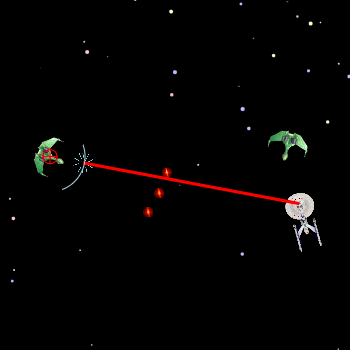
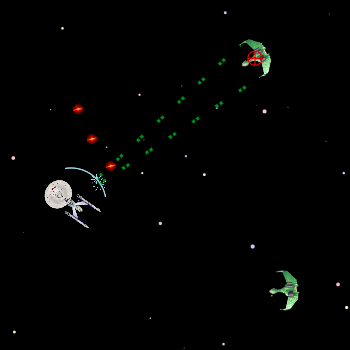
changed image for scen 2 and updated readme

diff --git a/dist/main.js b/dist/main.js
@@ -170,7 +170,7 @@ eval("const Utils = __webpack_require__(/*! ./utils */ \"./src/utils.js\");\n\nc
 /*! no static exports found */
 /***/ (function(module, exports, __webpack_require__) {
 
-eval("const Game = __webpack_require__(/*! ./game */ \"./src/game.js\");\nconst GameOpening = __webpack_require__(/*! ./game_opening */ \"./src/game_opening.js\");\nconst Enterprise = __webpack_require__(/*! ./enterprise */ \"./src/enterprise.js\");\nconst Soyuz = __webpack_require__(/*! ./soyuz */ \"./src/soyuz.js\");\nconst D7 = __webpack_require__(/*! ./d7 */ \"./src/d7.js\");\nconst Bird_of_Prey = __webpack_require__(/*! ./bird_of_prey */ \"./src/bird_of_prey.js\");\nconst Explosion = __webpack_require__(/*! ./explosion */ \"./src/explosion.js\")\nconst Utils = __webpack_require__(/*! ./utils */ \"./src/utils.js\");\n\nclass GameView {\n\n\tconstructor(ctx, sounds) {\n\n\t\tthis.ctx = ctx;\n\t\tthis.pause = false;\n\t\tthis.sounds = sounds;\n\n\t\tthis.game = new Game();\n\t\tthis.gameOpening = new GameOpening();\n\n\t\tthis.loadImages();\n\t};\n\t\n\n\tstart() {\n\t\t// start the animation\n\t\trequestAnimationFrame(this.animate.bind(this));\n\t};\n\n\n\tanimate() {\n\t\tif (!this.pause) {\n\n\t\t\t// if unpaused this steps and draws either the game or the gameOpening\n\t\t\tif (this.gameOpening !== null) this.gameOpening.stepAndDraw(this.ctx);\n\t\t\telse {\n\t\t\t\tif (this.game.main.getHull() === 0) this.game.lose = true;\n\t\t\t\telse if (this.game.enemies.length === 0) this.game.win = true;\n\t\t\t\telse {\n\t\t\t\t\tthis.game.enemies.forEach((enemy, i) => {\n\t\t\t\t\t\tif (enemy.isGone()){\n\t\t\t\t\t\t\tthis.game.enemies.splice(i, 1);\n\t\t\t\t\t\t\tthis.game.enemyAIs.splice(i, 1);\n\t\t\t\t\t\t\tif(this.game.main.getTarget() === enemy) this.game.changeMainTarget();\n\t\t\t\t\t\t\tif(this.game.enemies.length > 0) \n\t\t\t\t\t\t\t\tthis.game.enemies[this.game.enemies.length - 1].setLabels(true);\n\t\t\t\t\t\t} \n\t\t\t\t\t})\n\t\t\t\t\tthis.game.allies.forEach((ally, i) => {\n\t\t\t\t\t\tif (ally.isGone()) {\n\t\t\t\t\t\t\tthis.game.allies.splice(i, 1);\n\t\t\t\t\t\t\tthis.game.allyAIs.splice(i, 1);\n\t\t\t\t\t\t}\n\t\t\t\t\t})\n\t\t\t\t\tthis.game.step();\n\t\t\t\t}\n\t\t\t\tthis.game.draw(this.ctx);\n\t\t\t}\n\n\t\t\t// every call to animate requests causes another call to animate\n\t\t\trequestAnimationFrame(this.animate.bind(this));\n\t\t}\n\t};\n\n\t\n\tkeyHandler(e) {\n\t\tif (e.type == 'keydown') this.game.getKeyMap()[e.keyCode] = true;\n\t\telse this.game.getKeyMap()[e.keyCode] = false;\t\t\t\n\t};\n\n\n\t// get scenario click if still in the opening of the game, or\n\t// check to see if mute or autopilot is being clicked\n\tcheckClick(x, y, gainNode) {\n\n\t\tif (this.gameOpening !== null) {\n\t\t\tif (y >= 317 && y <= 734) {\n\t\t\t\tif (x > 54 && x < 407) {\n\t\t\t\t\tthis.loadScenario1();\n\t\t\t\t\tthis.openingOff();\n\t\t\t\t}\n\t\t\t\telse if (x > 440 && x < 795) {\n\t\t\t\t\tthis.loadScenario2();\n\t\t\t\t\tthis.openingOff();\n\t\t\t\t}\n\t\t\t\telse if (x > 830 && x < 1184) {\n\t\t\t\t\tthis.loadScenario3();\n\t\t\t\t\tthis.openingOff();\n\t\t\t\t}\n\t\t\t}\n\t\t}\n\t\telse {\n\t\t\tif(x > 1085 && x < 1112) {\n\t\t\t\tif (y > 46 && y < 71) {\n\t\t\t\t\tthis.game.muteToggle();\n\n\t\t\t\t\tif (gainNode.gain.value > -.01 && gainNode.gain.value < .01) gainNode.gain.value = .25;\n\t\t\t\t\telse gainNode.gain.value = 0;\n\n\t\t\t\t\t// if paused, draw to show checkmark in box\n\t\t\t\t\tif (this.pause) this.game.draw(this.ctx)\n\t\t\t\t}\n\t\t\t\telse if (y > 85 && y < 112) {\n\t\t\t\t\tthis.game.autoPilotToggle();\n\n\t\t\t\t\t// if paused, draw to show checkmark in box\n\t\t\t\t\tif (this.pause) this.game.draw(this.ctx)\n\t\t\t\t}\n\t\t\t}\n\t\t}\n\t}\n\n\n\tpauseGameToggle() {\n\t\tthis.pause = this.pause === false;\n\t\t\n\t\t// needed to restart animation on unpause\n\t\tif (!this.pause) requestAnimationFrame(this.animate.bind(this));\n\t};\n\n\n\topeningOff() {\n\t\tthis.gameOpening = null;\n\t\tthis.sounds.theme.play();\n\t};\n\n\n\tloadScenario1(){\n\t\tthis.addMain([1040, 710, 1, true], false);\n\t\tthis.addD7([0, 100], [100, 710, 1, true], false);\n\n\t\tthis.game.main.setTarget(this.game.enemies[0]);\n\t};\n\n\n\tloadScenario2() {\n\t\tthis.addMain([1040, 710, 1, true], false);\n\t\tthis.addBop([0, 500], [100, 620, .6, false], true, 80, 100);\n\t\tthis.addBop([0, 50], [100, 775, .6, true], true);\n\n\t\tthis.game.main.setTarget(this.game.enemies[0]);\n\t};\n\n\n\tloadScenario3() {\n\t\tthis.addMain([1040, 775, .6, true], false);\n\t\tthis.addSoyuz([600, 350], [1040, 465, .6, false], true);\n\t\tthis.addSoyuz([600, 450], [1040, 620, .6, false], true);\n\t\tthis.addBop([0, 300], [100, 465, .6, false], true, 80, 100);\n\t\tthis.addBop([0, 100], [100, 620, .6, false], true);\n\t\tthis.addD7([0, 200], [100, 775, .6, true], true);\n\n\t\tthis.game.main.setTarget(this.game.enemies[0]);\n\t};\n\n\tloadScenario4() {\n\t\tthis.addMain([1040, 775, .6, true], false);\n\t\tthis.addSoyuz([600, 350], [1040, 465, .6, false], true);\n\t\tthis.addSoyuz([600, 450], [1040, 620, .6, false], true);\n\t\tthis.addBop([375, 350], [100, 465, .6, false], true, 80, 100);\n\t\tthis.addBop([375, 450], [100, 620, .6, false], true);\n\t\tthis.addD7([400, 405], [100, 775, .6, true], true);\n\n\t\tthis.game.main.setTarget(this.game.enemies[0]);\n\t};\n\n\taddMain(ssdPos, aiTargeting, phaserRecharge, torpedoReload) {\n\t\tthis.game.addMainShip(new Enterprise({\n\t\t\tpos: [Utils.getCanvasDim()[0] / 2 - 50, Utils.getCanvasDim()[1] / 2 - 50], ssdPos,\n\t\t\trotationOffset: Math.PI,\n\t\t\ttorpSound: this.sounds.torpSound,\n\t\t\tbeamSound: this.sounds.phasSound,\n\t\t\texplosion: new Explosion(this.explosionImg, this.sounds.exploSound),\n\t\t\texplosionImg: this.explosionImg,\n\t\t\tsparksImg: this.sparksImg,\n\t\t\ttarget: this.game.enemies[0],\n\t\t\tshipImg: this.enterpriseImg,\n\t\t\tphaserRecharge,\n\t\t\ttorpedoReload\n\t\t}), aiTargeting);\n\t}\n\n\taddBop(pos, ssdPos, aiTargeting, phaserRecharge, torpedoReload) {\n\t\tthis.game.addEnemy(new Bird_of_Prey({\n\t\t\tpos, ssdPos,\n\t\t\ttorpSound: this.sounds.kTorpSound,\n\t\t\tbeamSound: this.sounds.disrupt2Sound,\n\t\t\texplosion: new Explosion(this.explosionImg, this.sounds.exploSound),\n\t\t\texplosionImg: this.explosionImg,\n\t\t\tsparksImg: this.sparksImg,\n\t\t\tshipImg: this.bopImg,\n\t\t\tphaserRecharge,\n\t\t\ttorpedoReload\n\t\t}), aiTargeting);\n\t};\n\n\n\taddSoyuz(pos, ssdPos, aiTargeting, phaserRecharge, torpedoReload) {\n\t\tthis.game.addAlly(new Soyuz({\n\t\t\tpos, ssdPos,\n\t\t\trotationOffset: Math.PI,\n\t\t\ttorpSound: this.sounds.torpSound,\n\t\t\tbeamSound: this.sounds.disrupt2Sound,\n\t\t\texplosion: new Explosion(this.explosionImg, this.sounds.exploSound),\n\t\t\texplosionImg: this.explosionImg,\n\t\t\tsparksImg: this.sparksImg,\n\t\t\tshipImg: this.soyuzImg,\n\t\t\tphaserRecharge,\n\t\t\ttorpedoReload\n\t\t}), aiTargeting);\n\t};\n\n\n\taddD7(pos, ssdPos, aiTargeting, phaserRecharge, torpedoReload) {\n\t\tthis.game.addEnemy(new D7({\n\t\t\tpos, ssdPos,\n\t\t\ttorpSound: this.sounds.kTorpSound,\n\t\t\tbeamSound: this.sounds.disruptSound,\n\t\t\texplosion: new Explosion(this.explosionImg, this.sounds.exploSound),\n\t\t\texplosionImg: this.explosionImg,\n\t\t\tsparksImg: this.sparksImg,\n\t\t\tshipImg: this.d7Img,\n\t\t\tphaserRecharge,\n\t\t\ttorpedoReload\n\t\t}), aiTargeting);\n\t};\n\n\tloadImages() {\n\t\tthis.sparksImg = Utils.loadImg('./images/sparks.png');\n\t\tthis.explosionImg = Utils.loadImg('./images/explosion-sprite-sheet.png');\n\t\tthis.bopImg = Utils.loadImg('./images/bop.png');\n\t\tthis.d7Img = Utils.loadImg('./images/D7.png');\n\t\tthis.soyuzImg = Utils.loadImg('./images/soyuz.png');\n\t\tthis.enterpriseImg = Utils.loadImg('./images/uss-enterprise-png-view-original-669.png')\n\t}\n}\n\nmodule.exports = GameView;\n\n//# sourceURL=webpack:///./src/game_view.js?");
+eval("const Game = __webpack_require__(/*! ./game */ \"./src/game.js\");\nconst GameOpening = __webpack_require__(/*! ./game_opening */ \"./src/game_opening.js\");\nconst Enterprise = __webpack_require__(/*! ./enterprise */ \"./src/enterprise.js\");\nconst Soyuz = __webpack_require__(/*! ./soyuz */ \"./src/soyuz.js\");\nconst D7 = __webpack_require__(/*! ./d7 */ \"./src/d7.js\");\nconst Bird_of_Prey = __webpack_require__(/*! ./bird_of_prey */ \"./src/bird_of_prey.js\");\nconst Explosion = __webpack_require__(/*! ./explosion */ \"./src/explosion.js\")\nconst Utils = __webpack_require__(/*! ./utils */ \"./src/utils.js\");\n\nclass GameView {\n\n\tconstructor(ctx, sounds) {\n\n\t\tthis.ctx = ctx;\n\t\tthis.pause = false;\n\t\tthis.sounds = sounds;\n\n\t\tthis.game = new Game();\n\t\tthis.gameOpening = new GameOpening();\n\n\t\tthis.loadImages();\n\t};\n\t\n\n\tstart() {\n\t\t// start the animation\n\t\trequestAnimationFrame(this.animate.bind(this));\n\t};\n\n\n\tanimate() {\n\t\tif (!this.pause) {\n\n\t\t\t// if unpaused this steps and draws either the game or the gameOpening\n\t\t\tif (this.gameOpening !== null) this.gameOpening.stepAndDraw(this.ctx);\n\t\t\telse {\n\t\t\t\tif (this.game.main.getHull() === 0) this.game.lose = true;\n\t\t\t\telse if (this.game.enemies.length === 0) this.game.win = true;\n\t\t\t\telse {\n\t\t\t\t\tthis.game.enemies.forEach((enemy, i) => {\n\t\t\t\t\t\tif (enemy.isGone()){\n\t\t\t\t\t\t\tthis.game.enemies.splice(i, 1);\n\t\t\t\t\t\t\tthis.game.enemyAIs.splice(i, 1);\n\t\t\t\t\t\t\tif(this.game.main.getTarget() === enemy) this.game.changeMainTarget();\n\t\t\t\t\t\t\tif(this.game.enemies.length > 0) \n\t\t\t\t\t\t\t\tthis.game.enemies[this.game.enemies.length - 1].setLabels(true);\n\t\t\t\t\t\t} \n\t\t\t\t\t})\n\t\t\t\t\tthis.game.allies.forEach((ally, i) => {\n\t\t\t\t\t\tif (ally.isGone()) {\n\t\t\t\t\t\t\tthis.game.allies.splice(i, 1);\n\t\t\t\t\t\t\tthis.game.allyAIs.splice(i, 1);\n\t\t\t\t\t\t}\n\t\t\t\t\t})\n\t\t\t\t\tthis.game.step();\n\t\t\t\t}\n\t\t\t\tthis.game.draw(this.ctx);\n\t\t\t}\n\n\t\t\t// every call to animate requests causes another call to animate\n\t\t\trequestAnimationFrame(this.animate.bind(this));\n\t\t}\n\t};\n\n\t\n\tkeyHandler(e) {\n\t\tif (e.type == 'keydown') this.game.getKeyMap()[e.keyCode] = true;\n\t\telse this.game.getKeyMap()[e.keyCode] = false;\t\t\t\n\t};\n\n\n\t// get scenario click if still in the opening of the game, or\n\t// check to see if mute or autopilot is being clicked\n\tcheckClick(x, y, gainNode) {\n\n\t\tif (this.gameOpening !== null) {\n\t\t\tif (y >= 317 && y <= 734) {\n\t\t\t\tif (x > 54 && x < 407) {\n\t\t\t\t\tthis.loadScenario1();\n\t\t\t\t\tthis.openingOff();\n\t\t\t\t}\n\t\t\t\telse if (x > 440 && x < 795) {\n\t\t\t\t\tthis.loadScenario2();\n\t\t\t\t\tthis.openingOff();\n\t\t\t\t}\n\t\t\t\telse if (x > 830 && x < 1184) {\n\t\t\t\t\tthis.loadScenario3();\n\t\t\t\t\tthis.openingOff();\n\t\t\t\t}\n\t\t\t}\n\t\t}\n\t\telse {\n\t\t\tif(x > 1085 && x < 1112) {\n\t\t\t\tif (y > 46 && y < 71) {\n\t\t\t\t\tthis.game.muteToggle();\n\n\t\t\t\t\tif (gainNode.gain.value > -.01 && gainNode.gain.value < .01) gainNode.gain.value = .25;\n\t\t\t\t\telse gainNode.gain.value = 0;\n\n\t\t\t\t\t// if paused, draw to show checkmark in box\n\t\t\t\t\tif (this.pause) this.game.draw(this.ctx)\n\t\t\t\t}\n\t\t\t\telse if (y > 85 && y < 112) {\n\t\t\t\t\tthis.game.autoPilotToggle();\n\n\t\t\t\t\t// if paused, draw to show checkmark in box\n\t\t\t\t\tif (this.pause) this.game.draw(this.ctx)\n\t\t\t\t}\n\t\t\t}\n\t\t}\n\t}\n\n\n\tpauseGameToggle() {\n\t\tthis.pause = this.pause === false;\n\t\t\n\t\t// needed to restart animation on unpause\n\t\tif (!this.pause) requestAnimationFrame(this.animate.bind(this));\n\t};\n\n\n\topeningOff() {\n\t\tthis.gameOpening = null;\n\t\tthis.sounds.theme.play();\n\t};\n\n\n\tloadScenario1(){\n\t\tthis.addMain([1040, 710, 1, true], false);\n\t\tthis.addD7([0, 100], [100, 710, 1, true], false);\n\n\t\tthis.game.main.setTarget(this.game.enemies[0]);\n\t};\n\n\n\tloadScenario2() {\n\t\tthis.addMain([1040, 710, 1, true], false);\n\t\tthis.addBop([0, 500], [100, 620, .6, false], true, 80, 100);\n\t\tthis.addBop([0, 50], [100, 775, .6, true], true);\n\n\t\tthis.game.main.setTarget(this.game.enemies[0]);\n\t};\n\n\n\tloadScenario3() {\n\t\tthis.addMain([1040, 775, .6, true], true);\n\t\tthis.addSoyuz([600, 350], [1040, 465, .6, false], true);\n\t\tthis.addSoyuz([600, 450], [1040, 620, .6, false], true);\n\t\tthis.addBop([0, 300], [100, 465, .6, false], true, 80, 100);\n\t\tthis.addBop([0, 100], [100, 620, .6, false], true);\n\t\tthis.addD7([0, 200], [100, 775, .6, true], true);\n\n\t\tthis.game.main.setTarget(this.game.enemies[0]);\n\t};\n\t\n\n\taddMain(ssdPos, aiTargeting, phaserRecharge, torpedoReload) {\n\t\tthis.game.addMainShip(new Enterprise({\n\t\t\tpos: [Utils.getCanvasDim()[0] / 2 - 50, Utils.getCanvasDim()[1] / 2 - 50], ssdPos,\n\t\t\trotationOffset: Math.PI,\n\t\t\ttorpSound: this.sounds.torpSound,\n\t\t\tbeamSound: this.sounds.phasSound,\n\t\t\texplosion: new Explosion(this.explosionImg, this.sounds.exploSound),\n\t\t\texplosionImg: this.explosionImg,\n\t\t\tsparksImg: this.sparksImg,\n\t\t\ttarget: this.game.enemies[0],\n\t\t\tshipImg: this.enterpriseImg,\n\t\t\tphaserRecharge,\n\t\t\ttorpedoReload\n\t\t}), aiTargeting);\n\t}\n\n\taddBop(pos, ssdPos, aiTargeting, phaserRecharge, torpedoReload) {\n\t\tthis.game.addEnemy(new Bird_of_Prey({\n\t\t\tpos, ssdPos,\n\t\t\ttorpSound: this.sounds.kTorpSound,\n\t\t\tbeamSound: this.sounds.disrupt2Sound,\n\t\t\texplosion: new Explosion(this.explosionImg, this.sounds.exploSound),\n\t\t\texplosionImg: this.explosionImg,\n\t\t\tsparksImg: this.sparksImg,\n\t\t\tshipImg: this.bopImg,\n\t\t\tphaserRecharge,\n\t\t\ttorpedoReload\n\t\t}), aiTargeting);\n\t};\n\n\n\taddSoyuz(pos, ssdPos, aiTargeting, phaserRecharge, torpedoReload) {\n\t\tthis.game.addAlly(new Soyuz({\n\t\t\tpos, ssdPos,\n\t\t\trotationOffset: Math.PI,\n\t\t\ttorpSound: this.sounds.torpSound,\n\t\t\tbeamSound: this.sounds.disrupt2Sound,\n\t\t\texplosion: new Explosion(this.explosionImg, this.sounds.exploSound),\n\t\t\texplosionImg: this.explosionImg,\n\t\t\tsparksImg: this.sparksImg,\n\t\t\tshipImg: this.soyuzImg,\n\t\t\tphaserRecharge,\n\t\t\ttorpedoReload\n\t\t}), aiTargeting);\n\t};\n\n\n\taddD7(pos, ssdPos, aiTargeting, phaserRecharge, torpedoReload) {\n\t\tthis.game.addEnemy(new D7({\n\t\t\tpos, ssdPos,\n\t\t\ttorpSound: this.sounds.kTorpSound,\n\t\t\tbeamSound: this.sounds.disruptSound,\n\t\t\texplosion: new Explosion(this.explosionImg, this.sounds.exploSound),\n\t\t\texplosionImg: this.explosionImg,\n\t\t\tsparksImg: this.sparksImg,\n\t\t\tshipImg: this.d7Img,\n\t\t\tphaserRecharge,\n\t\t\ttorpedoReload\n\t\t}), aiTargeting);\n\t};\n\n\tloadImages() {\n\t\tthis.sparksImg = Utils.loadImg('./images/sparks.png');\n\t\tthis.explosionImg = Utils.loadImg('./images/explosion-sprite-sheet.png');\n\t\tthis.bopImg = Utils.loadImg('./images/bop.png');\n\t\tthis.d7Img = Utils.loadImg('./images/D7.png');\n\t\tthis.soyuzImg = Utils.loadImg('./images/soyuz.png');\n\t\tthis.enterpriseImg = Utils.loadImg('./images/uss-enterprise-png-view-original-669.png')\n\t}\n}\n\nmodule.exports = GameView;\n\n//# sourceURL=webpack:///./src/game_view.js?");
 
 /***/ }),
 
@@ -225,7 +225,7 @@ eval("const SpaceObject = __webpack_require__(/*! ./space_object */ \"./src/spac
 /*! no static exports found */
 /***/ (function(module, exports, __webpack_require__) {
 
-eval("const Ship = __webpack_require__(/*! ./ship */ \"./src/ship.js\");\nconst SSD = __webpack_require__(/*! ./ssd */ \"./src/ssd.js\");\nconst Utils = __webpack_require__(/*! ./utils */ \"./src/utils.js\");\n\nclass Soyuz extends Ship {\n\tconstructor(options) {\n\t\tsuper(options);\n\n\t\tthis.turnRadius = 3;\n\t\tthis.enemy = false;\n\n\t\tthis.width = 35;\n\t\tthis.height = 28;\n\n\t\tthis.phaserRechargeMax = 170;\n\t\tthis.torpedoReloadMax = 200;\n\n\t\tthis.phaserOffsetDistance = 13;\n\t\tthis.phaserOffsetAngle = 1.5 * Math.PI;\n\t\tthis.phaserColor = \"red\";\n\n\t\tthis.phaserDamage = 5;\n\t\tthis.hullIntegrityMax = 100;\n\t\tthis.hullIntegrity = this.hullIntegrityMax;\n\n\t\t// ssd is the ship systems display in the corner of the screen\n\t\tthis.ssd = new SSD({\n\t\t\tssdPos: options.ssdPos,\n\t\t\timg_size: [80, 100],\n\t\t\timg_pos_offset: [-5, 10],\n\t\t\timg: Utils.loadImg('./images/soyuz-ssd.png'),\n\t\t\tbeamWeaponName: 'Phaser',\n\t\t\timgCoords: [0, 0, 125, 215],\n\t\t\tshieldStrength: 35\n\t\t});\n\t};\n\n\n\tdraw(ctx, target) {\n\t\tctx.save();\n\n\t\tthis.rotateCanvas(ctx);\n\n\t\t//draw ship\n\t\tif (this.shipExplosionCounter < 34) {\n\t\t\tctx.drawImage(this.shipImg, 0, 0, 362, 237,\n\t\t\t\tthis.pos[0],\n\t\t\t\tthis.pos[1],\n\t\t\t\tthis.width,\n\t\t\t\tthis.height\n\t\t\t);\n\t\t}\n\n\t\tctx.restore();\n\n\t\t// fires a 2nd phaser line from other side\n\t\tif (this.phaserCounter > 0 && this.ptarget && !this.ptarget.isGone()) \n\t\t\tthis.drawPhaser(ctx, 2*Math.PI - this.phaserOffsetAngle);\n\n\t\tsuper.draw(ctx, target);\n\t};\n\n\t// soyuz can only fire beams if target is in front\n\tfirePhasers() {\n\t\tconst angle = Utils.angleToOtherShip(this, this.target)\n\t\tif ((angle > (2 * Math.PI - Math.PI / 9)) || (angle < Math.PI / 9)) super.firePhasers();\n\t}\n\n\tdrawPhaser(ctx, angle) {\n\t\tsuper.drawPhaser(ctx, angle, true);\n\t}\n}\n\nmodule.exports = Soyuz;\n\n//# sourceURL=webpack:///./src/soyuz.js?");
+eval("const Ship = __webpack_require__(/*! ./ship */ \"./src/ship.js\");\nconst SSD = __webpack_require__(/*! ./ssd */ \"./src/ssd.js\");\nconst Utils = __webpack_require__(/*! ./utils */ \"./src/utils.js\");\n\nclass Soyuz extends Ship {\n\tconstructor(options) {\n\t\tsuper(options);\n\n\t\tthis.turnRadius = 3;\n\t\tthis.enemy = false;\n\n\t\tthis.width = 35;\n\t\tthis.height = 28;\n\n\t\tthis.phaserRechargeMax = 170;\n\t\tthis.torpedoReloadMax = 200;\n\n\t\tthis.phaserOffsetDistance = 13;\n\t\tthis.phaserOffsetAngle = 1.5 * Math.PI;\n\t\tthis.phaserColor = \"red\";\n\n\t\tthis.phaserDamage = 5;\n\t\tthis.hullIntegrityMax = 90;\n\t\tthis.hullIntegrity = this.hullIntegrityMax;\n\n\t\t// ssd is the ship systems display in the corner of the screen\n\t\tthis.ssd = new SSD({\n\t\t\tssdPos: options.ssdPos,\n\t\t\timg_size: [80, 100],\n\t\t\timg_pos_offset: [-5, 10],\n\t\t\timg: Utils.loadImg('./images/soyuz-ssd.png'),\n\t\t\tbeamWeaponName: 'Phaser',\n\t\t\timgCoords: [0, 0, 125, 215],\n\t\t\tshieldStrength: 30\n\t\t});\n\t};\n\n\n\tdraw(ctx, target) {\n\t\tctx.save();\n\n\t\tthis.rotateCanvas(ctx);\n\n\t\t//draw ship\n\t\tif (this.shipExplosionCounter < 34) {\n\t\t\tctx.drawImage(this.shipImg, 0, 0, 362, 237,\n\t\t\t\tthis.pos[0],\n\t\t\t\tthis.pos[1],\n\t\t\t\tthis.width,\n\t\t\t\tthis.height\n\t\t\t);\n\t\t}\n\n\t\tctx.restore();\n\n\t\t// fires a 2nd phaser line from other side\n\t\tif (this.phaserCounter > 0 && this.ptarget && !this.ptarget.isGone()) \n\t\t\tthis.drawPhaser(ctx, 2*Math.PI - this.phaserOffsetAngle);\n\n\t\tsuper.draw(ctx, target);\n\t};\n\n\t// soyuz can only fire beams if target is in front\n\tfirePhasers() {\n\t\tconst angle = Utils.angleToOtherShip(this, this.target)\n\t\tif ((angle > (2 * Math.PI - Math.PI / 9)) || (angle < Math.PI / 9)) super.firePhasers();\n\t}\n\n\tdrawPhaser(ctx, angle) {\n\t\tsuper.drawPhaser(ctx, angle, true);\n\t}\n}\n\nmodule.exports = Soyuz;\n\n//# sourceURL=webpack:///./src/soyuz.js?");
 
 /***/ }),
 

diff --git a/src/game_view.js b/src/game_view.js
@@ -143,7 +143,7 @@ class GameView {
 
 
 	loadScenario3() {
-		this.addMain([1040, 775, .6, true], false);
+		this.addMain([1040, 775, .6, true], true);
 		this.addSoyuz([600, 350], [1040, 465, .6, false], true);
 		this.addSoyuz([600, 450], [1040, 620, .6, false], true);
 		this.addBop([0, 300], [100, 465, .6, false], true, 80, 100);
@@ -152,17 +152,7 @@ class GameView {
 
 		this.game.main.setTarget(this.game.enemies[0]);
 	};
-
-	loadScenario4() {
-		this.addMain([1040, 775, .6, true], false);
-		this.addSoyuz([600, 350], [1040, 465, .6, false], true);
-		this.addSoyuz([600, 450], [1040, 620, .6, false], true);
-		this.addBop([375, 350], [100, 465, .6, false], true, 80, 100);
-		this.addBop([375, 450], [100, 620, .6, false], true);
-		this.addD7([400, 405], [100, 775, .6, true], true);
-
-		this.game.main.setTarget(this.game.enemies[0]);
-	};
+	
 
 	addMain(ssdPos, aiTargeting, phaserRecharge, torpedoReload) {
 		this.game.addMainShip(new Enterprise({

diff --git a/src/soyuz.js b/src/soyuz.js
@@ -20,7 +20,7 @@ class Soyuz extends Ship {
 		this.phaserColor = "red";
 
 		this.phaserDamage = 5;
-		this.hullIntegrityMax = 100;
+		this.hullIntegrityMax = 90;
 		this.hullIntegrity = this.hullIntegrityMax;
 
 		// ssd is the ship systems display in the corner of the screen
@@ -31,7 +31,7 @@ class Soyuz extends Ship {
 			img: Utils.loadImg('./images/soyuz-ssd.png'),
 			beamWeaponName: 'Phaser',
 			imgCoords: [0, 0, 125, 215],
-			shieldStrength: 35
+			shieldStrength: 30
 		});
 	};
 

diff --git a/README.md b/README.md
@@ -12,14 +12,15 @@ You are in control of a starship thrust into combat with an enemy. By controllin
 <h2>Features</h2>
 <ol>
 	<li>Control over your ship (speed, direction, weapons).</li>
-	<li>Optional autopilot if you just want to watch.</li>
-	<li>Fight either one cruiser or 2 birds of prey.</li>
-	<li>Visuals for beam weapon and torpedos.</li>
+	<li>Enemy AI</li>
+	<li>Optional autopilot of the main ship if you just want to watch.</li>
+	<li>Option to fight either one cruiser, 2 birds of prey, or fight in a fleet action.</li>
+	<li>Visuals for beam weapons, torpedos, and cannons.</li>
 	<li>Shields show on hit (until they're down).</li>
 	<li>Game music and sound effects.</li>
 	<li>Mute and pause options.</li>
 	<li>Moving starfield to indicate main ship movement.</li>
-	<li>Ship Systems Display in corner to indicate shield strength, hull integrity and weapon recharge status.</li>
+	<li>Ship Systems Display (of adjustable size) in corner to indicate shield strength, hull integrity and weapon recharge status.</li>
 </ol>
 <br>
 <a href="https://shoemker.github.io/picard_maneuver/"><img src="./images/screenshots/pm_Screenshot.jpg"></a>
